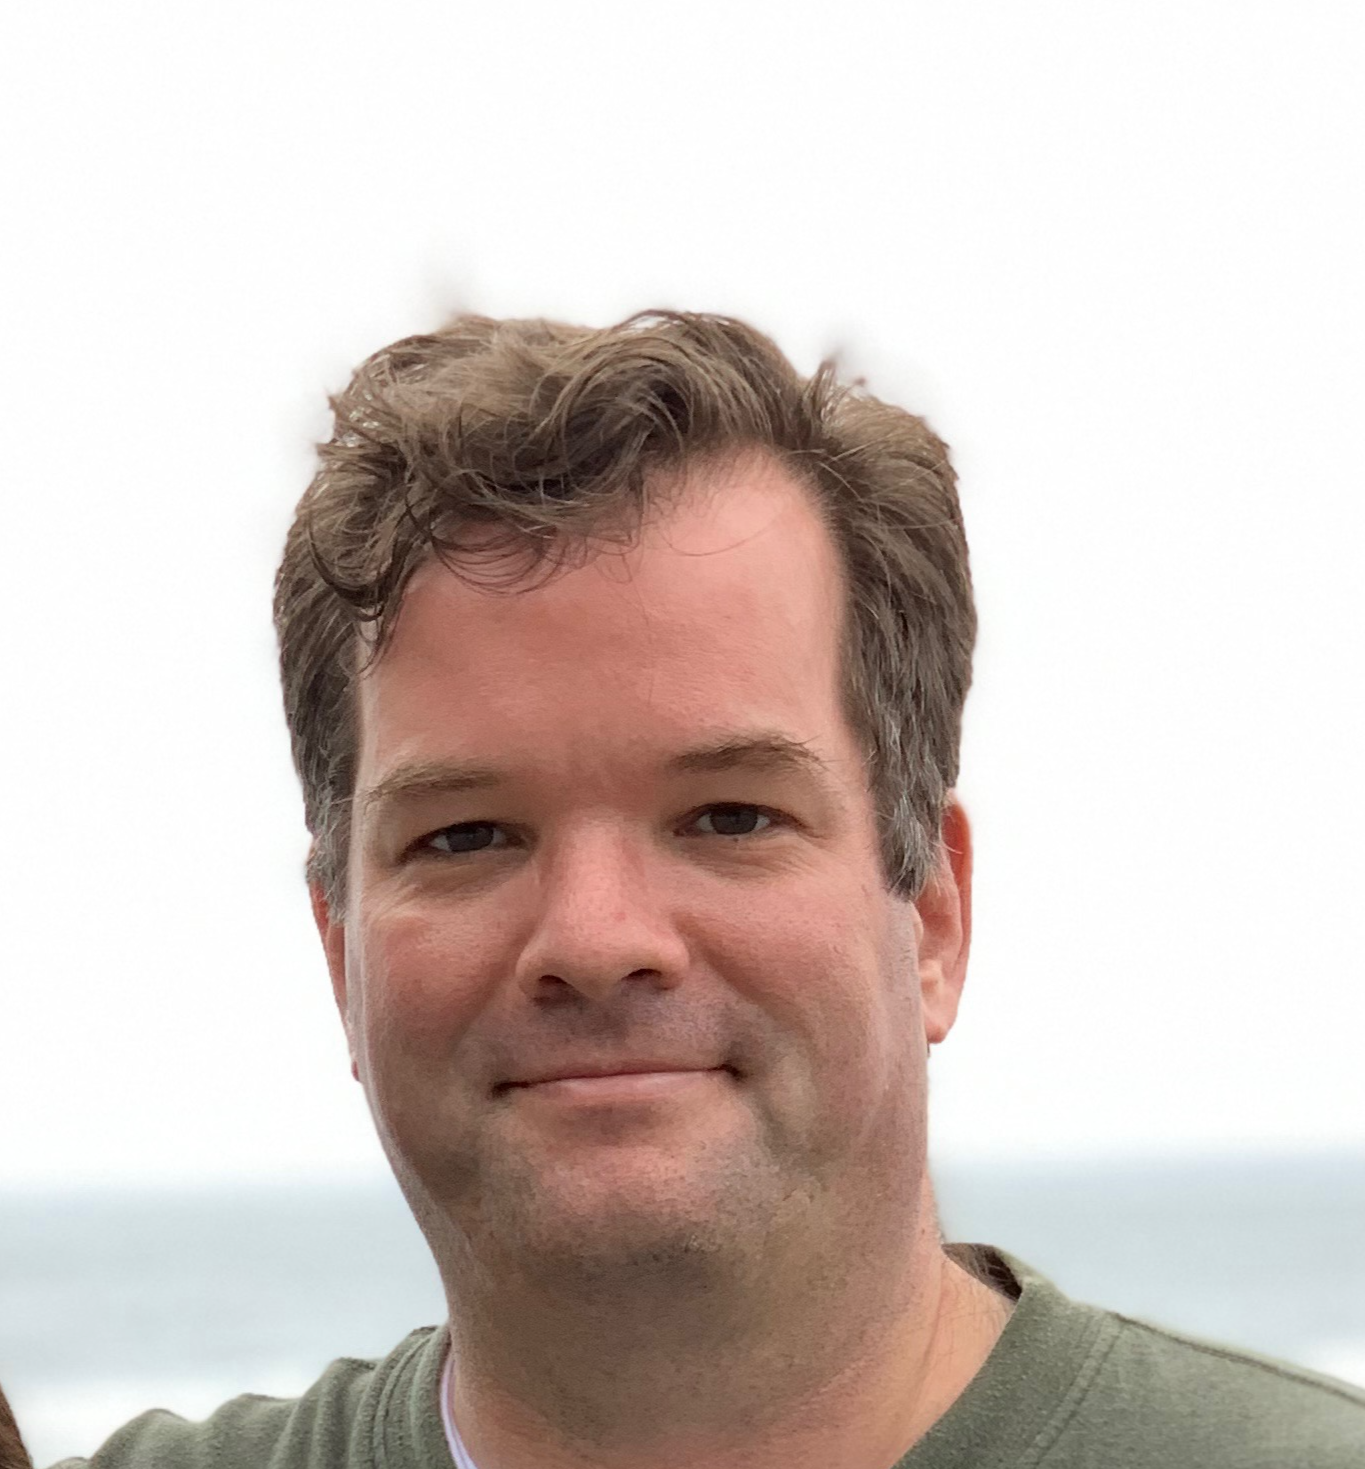
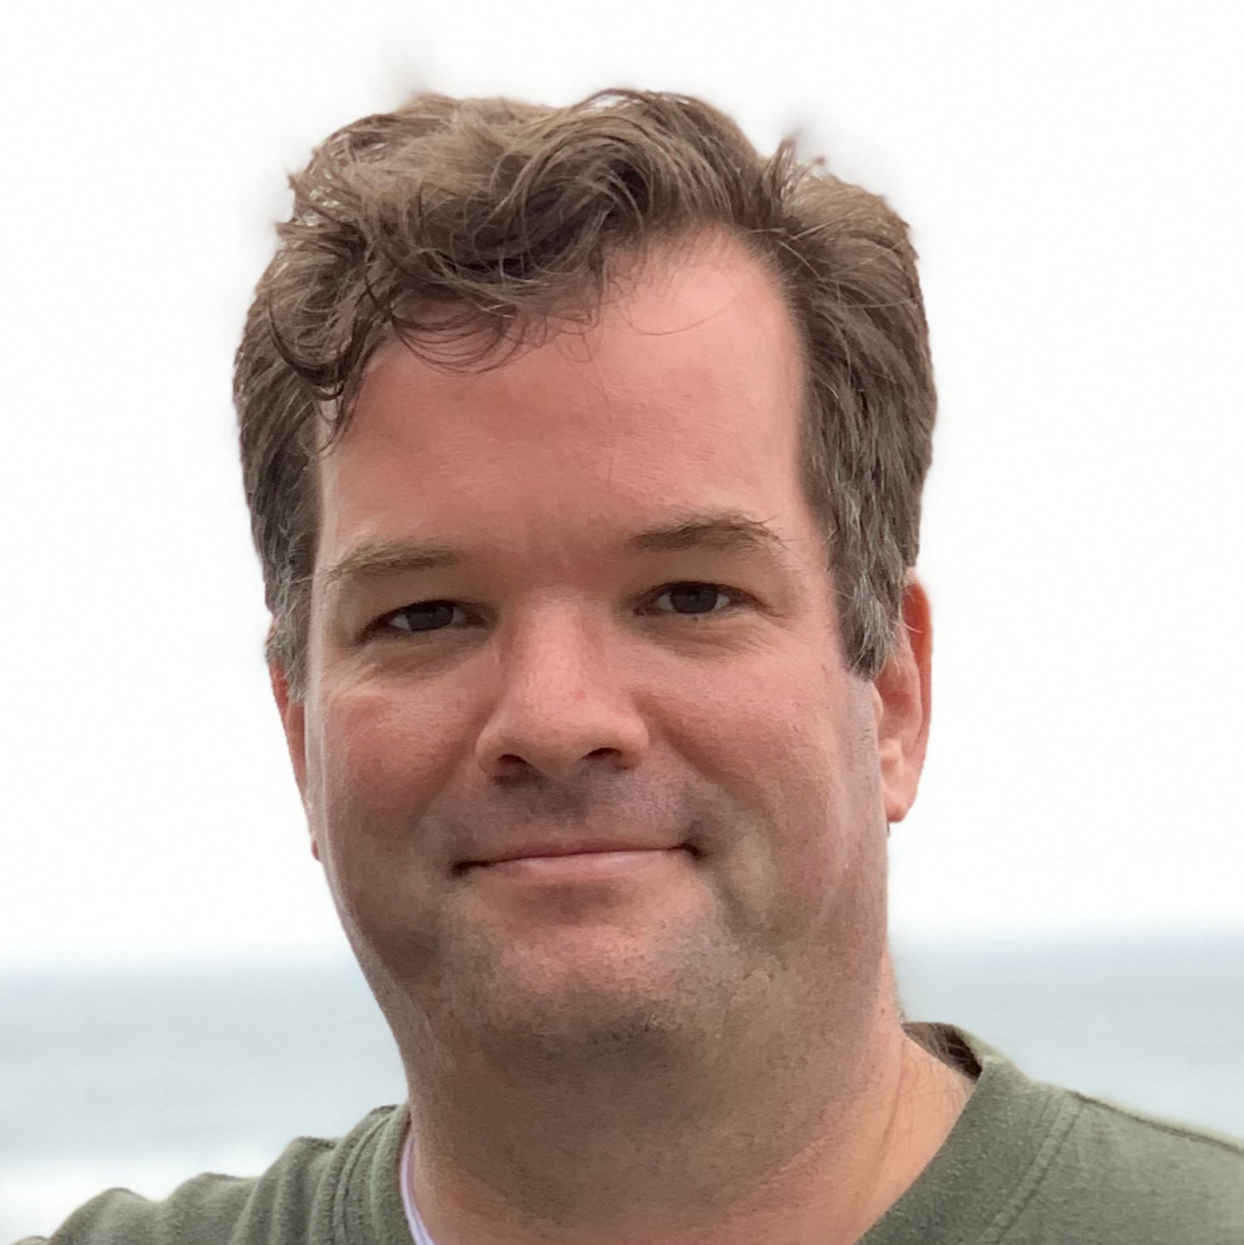
fix: Updates

diff --git a/index.html b/index.html
@@ -147,12 +147,20 @@
 <p><i class="fa-brands fa-github" data-icon="github" aria-hidden="true"></i>: <a href="https://github.com/mammerla">mammerla</a></p>
 <p><i class="fa-brands fa-bluesky" data-icon="bluesky" aria-hidden="true"></i>: <a href="https://bsky.app/profile/mikeamm.bsky.social">mikeamm</a></p>
 <p><i class="fa-brands fa-square-x-twitter" data-icon="square-x-twitter" aria-hidden="true"></i>: <a href="https://x.com/mikeamm">mikeamm</a></p>
+<p><i class="fa-solid fa-envelope" data-icon="fa-solid:envelope" aria-hidden="true"></i>: <a href="mailto:ammerlaan@live.com">ammerlaan@live.com</a></p>
 <h2>Projects</h2>
 <h3>Minecraft Platform</h3>
 <p>I work on the Minecraft creator platform and associated tooling at Mojang.</p>
 <ul><li><p>We launched the scripting platform for Minecraft, which was essential for launching new categories of content for Minecraft (add-ons)</p></li><li><p>I spec'ed and largely built the Minecraft Creator Tools suite, including <a href="https://www.npmjs.com/package/@minecraft/creator-tools">a website</a> for beginning to advanced creators and <a href="https://www.npmjs.com/package/@minecraft/creator-tools">set of NPM commands</a> and tools.</p></li><li><p>I manage and craft the <a href="https://github.com/microsoft/minecraft-samples">Minecraft samples</a> and <a href="">documentation suite</a></p></li><li><p>I produce and create the <a href="https://www.youtube.com/@minecraftcreatorchannel">Minecraft Creator Channel on YouTube</a></p></li></ul>
 <h3>Developer Ecosystem Marketing</h3>
-<ul><li><p>Managed executive keynotes at major Microsoft conferences</p></li><li><p>Delivered end-to-end conference presence and execution</p></li><li><p>Inaugurated a comprehensive partner program with top ISV partners</p></li></ul>
+<ul><li><p>Managed executive keynotes at major Microsoft conferences (Microsoft Build)</p></li><li><p>Delivered end-to-end conference presence and execution</p></li><li><p>Inaugurated a comprehensive partner program with top ISV partners</p></li></ul>
+<h3>SharePoint and Excel</h3>
+<ul><li><p>Major areas of the f<a href="https://learn.microsoft.com/en-us/previous-versions/office/developer/sharepoint-2010/hh147178(v=office.14)">irst SharePoint developer platform</a>, a cornerstone of a multi-billion dollar industry unto itself</p></li><li><p><a href="https://support.microsoft.com/en-us/office/add-a-background-color-to-a-sheet-tab-440b28f2-3146-4dca-95df-3b9d43acbe59">Sheet Tab Colors</a> and many other capabilities and platform elements of Excel.. a long time ago</p></li></ul>
+<h3>Combat Flight Simulator 3 and Fighter Ace</h3>
+<ul><li><p><a href="https://en.wikipedia.org/wiki/Combat_Flight_Simulator_3">Program Manager</a> for the UX, several in-game experiences, and tooling and platform for CFS3</p></li><li><p>Ran Fighter Ace 3 with a partner developer</p></li></ul>
+<h3>Other Projects</h3>
+<p>Stuff I built a long time ago</p>
+<ul><li><p><a href="https://archive.org/details/ToServeAndToProtect">To Serve and To Protect</a></p></li><li><p><a href="https://www.dosgames.com/game/snakefighter/">SnakeFighter</a></p></li></ul>
 <p>See the <a href="resume.html">Resume</a> for more.</p>
 </body>
 </html>
